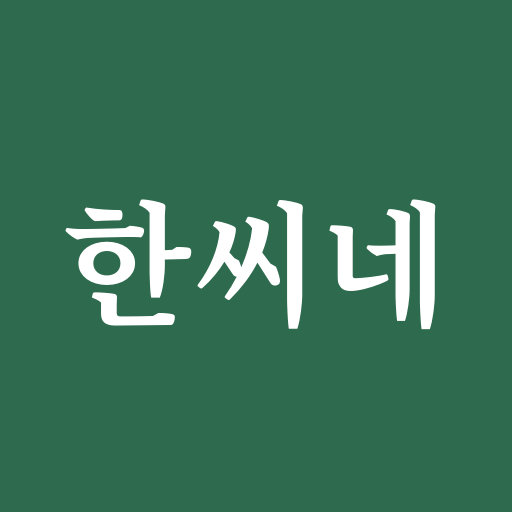
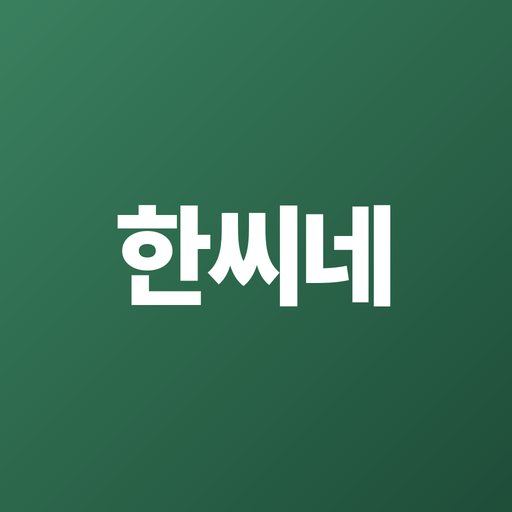
앱 아이콘·시작 화면: 굵은 고딕 '한씨네'
Claude-Session: https://claude.ai/code/session_01RXHvG4QLmjWZ6CcgwXX6Er

Changed region(s): [[0.125, 0.375, 0.875, 0.6562], [0.8438, 0.8438, 1.0, 1.0]]

diff --git a/sw.js b/sw.js
@@ -1,5 +1,5 @@
 /* 서비스 워커: 화면 파일은 네트워크 우선(업데이트 즉시 반영), 끊기면 저장본 사용 */
-const CACHE='hanssine-v31';
+const CACHE='hanssine-v32';
 const FILES=["./", "index.html", "manifest.json", "css/tokens.css", "css/app.css", "js/core/util.js", "js/core/sample-art.js", "js/core/firebase-config.js", "js/core/data.js", "js/core/sync.js", "js/core/media.js", "js/core/push.js", "js/core/ui.js", "js/core/voice.js", "js/core/ai.js", "js/core/weather.js", "js/features/stickers.js", "js/features/chat.js", "js/features/rooms.js", "js/features/unread.js", "js/features/calendar.js", "js/features/anniv.js", "js/features/dues.js", "js/features/bot.js", "js/features/translate.js", "js/features/exercise.js", "js/features/games.js", "js/features/games2.js", "js/features/album.js", "js/features/senior.js", "js/features/home.js", "js/features/settings.js", "js/features/auth.js", "js/main.js", "icons/icon-192.png", "icons/icon-512.png"];
 self.addEventListener('install',e=>{e.waitUntil(caches.open(CACHE).then(c=>c.addAll(FILES)));self.skipWaiting()});
 self.addEventListener('activate',e=>{e.waitUntil(caches.keys().then(ks=>Promise.all(ks.filter(k=>k!==CACHE).map(k=>caches.delete(k)))));self.clients.claim()});
